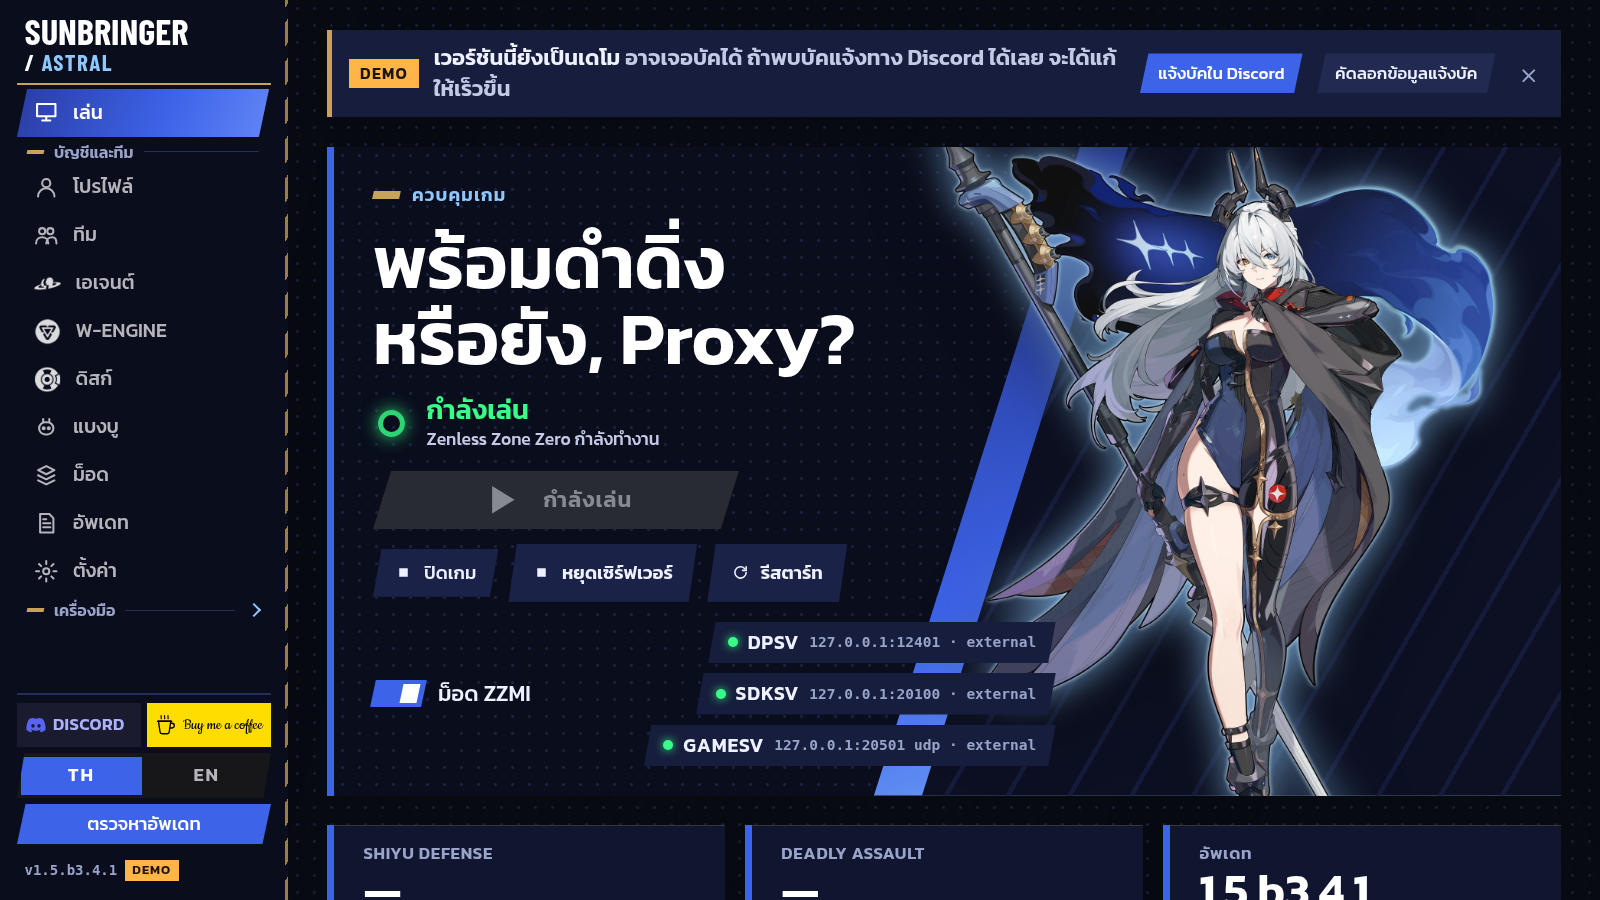
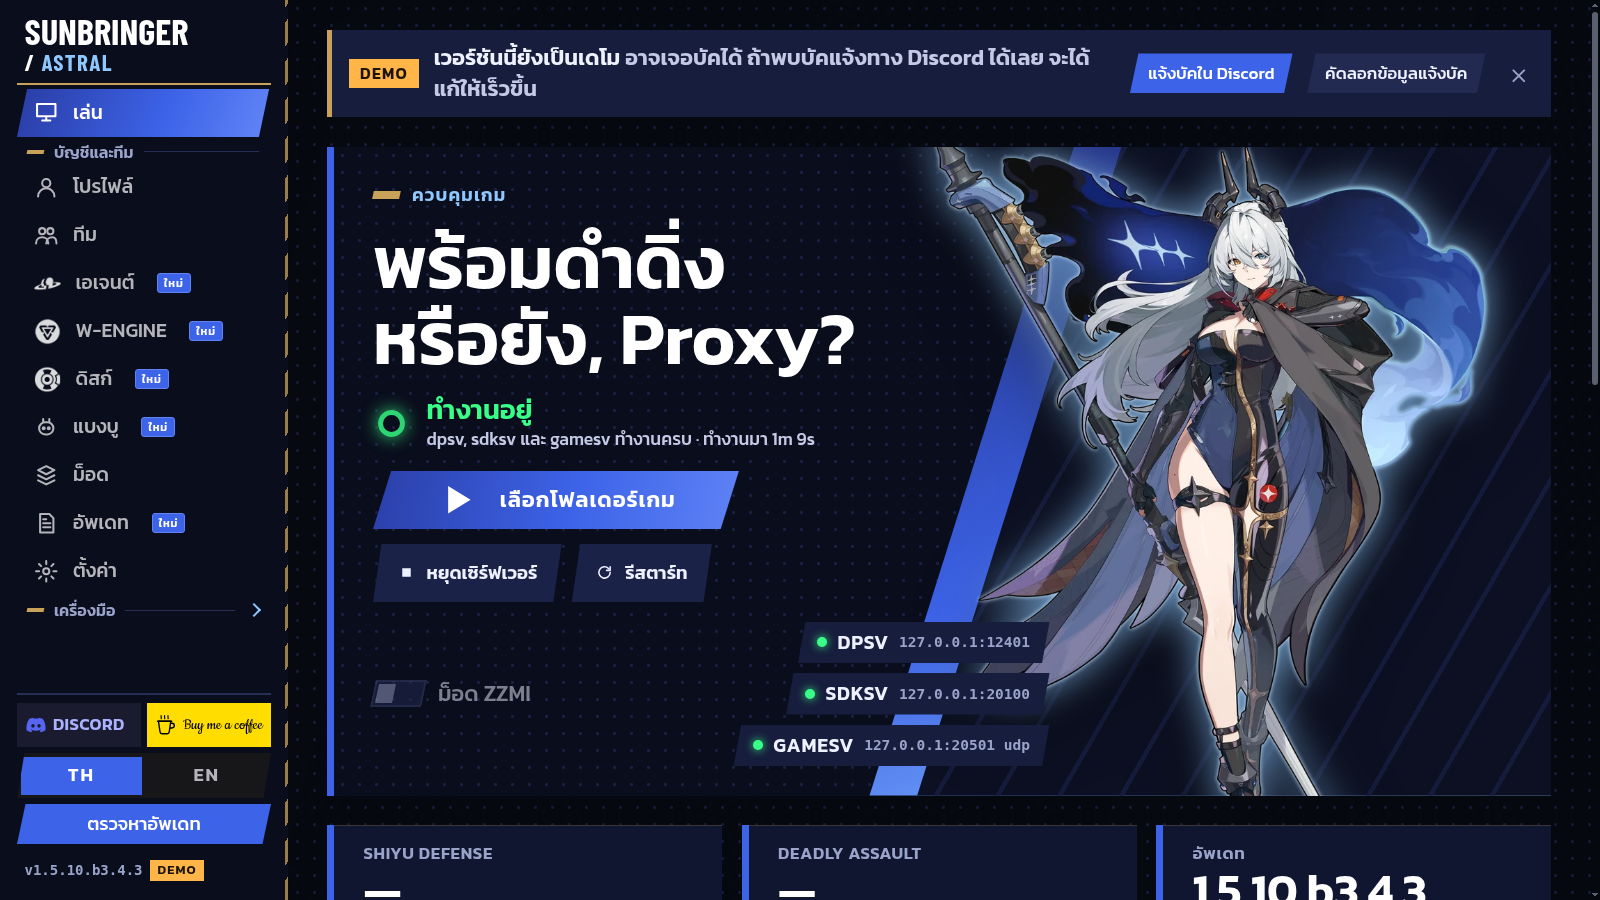
Game 3.4.3: launcher 1.5.10.b3.4.3 and Custom server e1.5.7.r3.4.3
README badge CNBetaWin3.4.3 and what the Custom server adds; current
launcher and server previews; AUR PKGBUILD 1.5.10.b3.4.3 from release
v1.5.b3.4.3.

diff --git a/README.md b/README.md
@@ -11,7 +11,7 @@
 
 <p align="center">
   <a href="https://github.com/thaxao/Sunbringer-Astral/releases"><img src="https://img.shields.io/github/v/release/thaxao/Sunbringer-Astral?include_prereleases&label=release&color=F7A41D" alt="Release"></a>
-  <img src="https://img.shields.io/badge/game-CNBetaWin3.4.1-blue" alt="Game version">
+  <img src="https://img.shields.io/badge/game-CNBetaWin3.4.3-blue" alt="Game version">
   <img src="https://img.shields.io/badge/platform-Linux%20%7C%20Windows-green" alt="Platform">
   <img src="https://img.shields.io/badge/license-Apache--2.0-orange" alt="License">
 </p>
@@ -89,7 +89,7 @@ irm https://raw.githubusercontent.com/thaxao/Sunbringer-Astral/main/tools/instal
 |---|---|
 | **Launcher** | เปิดเกมและ server ในปุ่มเดียว, ติดตั้งและอัปเดตตัวเกมด้วย diff (hdiff / ZIFF), ตรวจและซ่อมไฟล์เกม |
 | **บัญชีและทีม** | แก้ Agent, W-Engine, Drive Disc, Bangboo และทีมแบบ real-time ระหว่างเล่น, บันทึก Shiyu Defense และ Deadly Assault, สำรองเซฟอัตโนมัติ |
-| **Custom Server** | server สำเร็จรูปสำหรับ Linux และ Windows อัปเดตจากลันเชอร์หรือคำสั่งได้ |
+| **Custom Server** | server สำเร็จรูปสำหรับ Linux และ Windows อัปเดตจากลันเชอร์หรือคำสั่งได้<br>**ใหม่ใน e1.5.7:** เริ่มการต่อสู้ Shiyu Defense ใหม่จากเมนูหยุดในเกม, หน้าจอจบการต่อสู้แสดงส่วนร่วมของแต่ละเอเจนต์, สติกเกอร์ ฟิลเตอร์ กรอบ และท่าทางในโหมดถ่ายรูป |
 | **Client Patch** | `sunbringer.exe` + `sunbringer.dll` ลันเชอร์ติดตั้งและตรวจ hash ให้เอง |
 | **Damage Meter** | ตัวนับดาเมจวาดในเกม: ดาเมจและ DPS ของแต่ละตัว, กราฟดาเมจตามเวลา<br>**Insert** เปิดเมนู ลากหรือปรับหน้าต่างได้ · **Insert / Esc** กลับเข้าเกม · **Home** ซ่อนแผง<br>อัปเดตแยกจาก [Sunbringer-Meter](https://github.com/thaxao/Sunbringer-Meter) |
 | **Mods** | จัดการ ZZMI mods |
